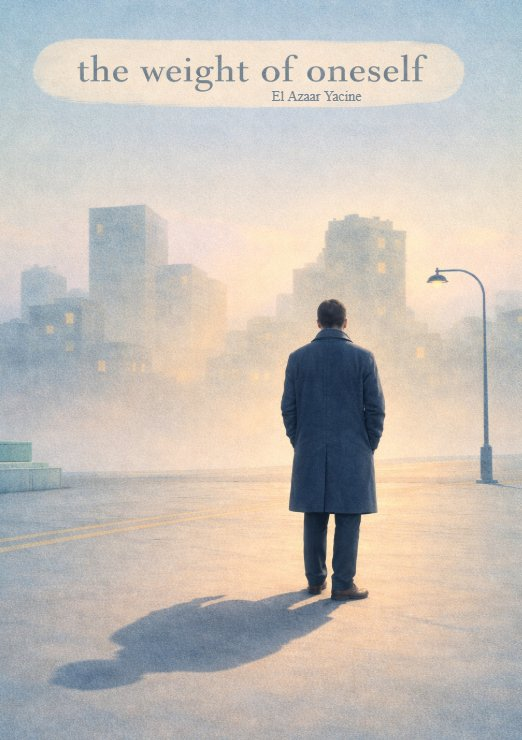
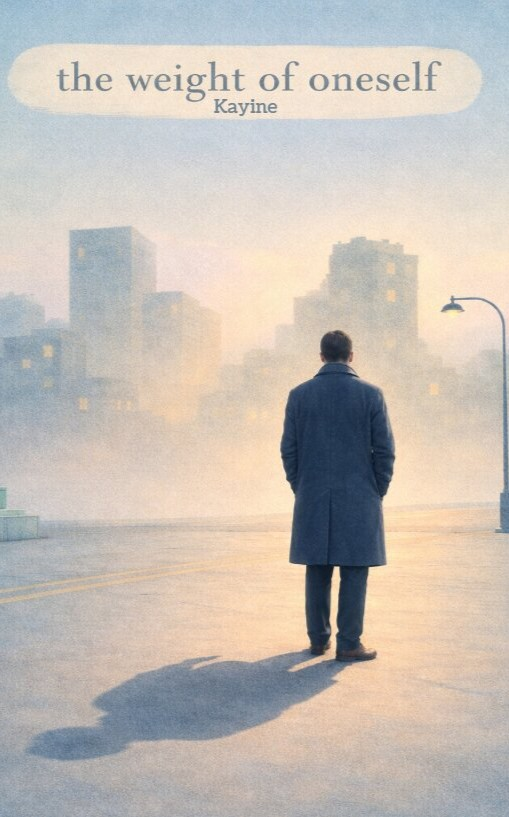
Add files via upload

diff --git a/index.html b/index.html
@@ -4,14 +4,14 @@
 <meta charset="utf-8">
 <meta name="viewport" content="width=device-width, initial-scale=1, viewport-fit=cover">
 <title>The Weight of Oneself – Kayine</title>
-<meta name="description" content="Arthur has always trusted the system. A novel by Kayine, available on Kindle.">
+<meta name="description" content="Arthur has always trusted the system. A novel by Kayine.">
 <link rel="preconnect" href="https://fonts.googleapis.com">
 <link href="https://fonts.googleapis.com/css2?family=Cormorant+Garamond:wght@500;600&display=swap" rel="stylesheet">
 <link rel="icon" href="favicon.ico" sizes="any">
 <link rel="icon" type="image/png" sizes="32x32" href="favicon-32.png">
 <link rel="apple-touch-icon" href="apple-touch-icon.png">
 <link rel="stylesheet" href="style.css">
-<script src="https://assets.lemonsqueezy.com/lemon.js" defer></script>
+<script src="unavailable.js" defer></script>
 </head>
 <body>
 <nav><div class="wrap"><a class="brand" href="index.html"><img class="brand-logo" src="logo.png" alt="" width="32" height="32"><span>The Weight of Oneself · Kayine</span></a><ul><li><a href="index.html" aria-current="page">The Book</a></li><li><a href="essays.html">Essays</a></li><li><a href="chapter-1.html">Chapter 1 &amp; Reviews</a></li></ul></div></nav>
@@ -21,7 +21,7 @@
 <h1>The Weight of Oneself</h1>
 <p class="by">A novel by Kayine</p>
 <p class="hook">Arthur has always trusted the system. Then one morning, something feels wrong.</p>
-<div class="buyrow"><a class="buy lemonsqueezy-button" href="https://itskayine.blink.store/theweightofmyself?embed=true">Buy direct from the author</a> <a class="buy dark" href="https://amzn.eu/d/0gb8DovP" target="_blank" rel="noopener">Buy on Amazon</a></div>
+<div class="buyrow"><a class="buy" href="#" data-unavailable>Not available yet</a></div>
 <span class="fmt">E-book, English edition · <a href="chapter-1.html">Read Chapter 1 first</a></span>
 </div></div></header>
 <main>
@@ -35,8 +35,8 @@
 <h2>About the author</h2>
 <p>Kayine wrote <em>The Weight of Oneself</em> at 18, while studying engineering. Drawn to debate and philosophy, Kayine uses this novel to ask what remains of a person once the system has reshaped them. More of this thinking lives in the <a href="essays.html">essays</a>.</p>
 </div></section>
-<section class="cta"><div class="wrap"><p>Read it on your Kindle, phone, or tablet.</p>
-<div class="buyrow"><a class="buy lemonsqueezy-button" href="https://itskayine.blink.store/theweightofmyself?embed=true">Buy direct from the author</a> <a class="buy dark" href="https://amzn.eu/d/0gb8DovP" target="_blank" rel="noopener">Buy on Amazon</a></div>
+<section class="cta"><div class="wrap"><p>Want to read it?</p>
+<div class="buyrow"><a class="buy" href="#" data-unavailable>Not available yet</a></div></div></section>
 </main>
 <footer>
 <img class="foot-mark" src="mark-white.png" alt="Kayine" width="48" height="48">

diff --git a/chapter-1.html b/chapter-1.html
@@ -11,7 +11,7 @@
 <link rel="icon" type="image/png" sizes="32x32" href="favicon-32.png">
 <link rel="apple-touch-icon" href="apple-touch-icon.png">
 <link rel="stylesheet" href="style.css">
-<script src="https://assets.lemonsqueezy.com/lemon.js" defer></script>
+<script src="unavailable.js" defer></script>
 </head>
 <body>
 <nav><div class="wrap"><a class="brand" href="index.html"><img class="brand-logo" src="logo.png" alt="" width="32" height="32"><span>The Weight of Oneself · Kayine</span></a><ul><li><a href="index.html">The Book</a></li><li><a href="essays.html">Essays</a></li><li><a href="chapter-1.html" aria-current="page">Chapter 1 &amp; Reviews</a></li></ul></div></nav>
@@ -25,7 +25,7 @@
 <p>Now came the moment he loved most. He has to get dressed for work. He took off his tiger-stripped pajamas and put on the first layer of clothes for his outfit–an absolutely ravishing white shirt which he inserted into his dark blue pants–. He didn’t forget the straps he held the assembly with and he passed his hands through the sleeves of the slightly darker vest that he had. It was without any doubt that one could say that Mr Arthur was a man of fashion. He dresses simply but very well. He doesn’t dress to impress but he manages to do so. He was one of those men indifferent to the judgment of others. He lived his life as if it was his. He believed in the fact that he was the main and only important character in his story and that this story wouldn’t end without him there to witness it.</p>
 </div></section>
 <section class="cta"><div class="wrap"><p>Want to keep reading?</p>
-<div class="buyrow"><a class="buy lemonsqueezy-button" href="https://itskayine.blink.store/theweightofmyself?embed=true">Buy direct from the author</a> <a class="buy dark" href="https://amzn.eu/d/0gb8DovP" target="_blank" rel="noopener">Buy on Amazon</a></div></div></section>
+<div class="buyrow"><a class="buy" href="#" data-unavailable>Not available yet</a></div></div></section>
 <section class="story"><div class="wrap wide">
 <h2>Reviews</h2>
 <!-- Example of how reviews look. Real reviews are added in reviews.js and replace these three. -->
@@ -43,7 +43,6 @@
 </div>
 <div class="actions">
 <a class="buy dark" href="mailto:kayinewrites@gmail.com?subject=Review%20of%20The%20Weight%20of%20Oneself&body=Your%20name%3A%0A%0AYour%20review%3A%0A"><svg viewBox="0 0 24 24" width="18" height="18" fill="none" stroke="currentColor" stroke-width="2" stroke-linecap="round" stroke-linejoin="round" aria-hidden="true"><rect x="3" y="5" width="18" height="14" rx="2"/><path d="m3 7 9 6 9-6"/></svg>Send a review</a>
-<a href="https://amzn.eu/d/0gb8DovP" target="_blank" rel="noopener">Read all reviews on Amazon</a>
 </div>
 <script src="reviews.js"></script>
 </div></section>

diff --git a/unavailable.js b/unavailable.js
@@ -1,0 +1,29 @@
+// Pop-up shown when someone clicks a "Buy" button.
+(function () {
+  var dialog = document.createElement("dialog");
+  dialog.className = "sale-dialog";
+  dialog.setAttribute("aria-labelledby", "sale-title");
+  dialog.innerHTML =
+    '<h2 id="sale-title">Currently unavailable</h2>' +
+    "<p>Due to the legal context of the author, the book cannot be sold at the moment.</p>" +
+    '<button type="button" class="buy dark">Close</button>';
+  document.body.appendChild(dialog);
+
+  dialog.querySelector("button").addEventListener("click", function () {
+    dialog.close();
+  });
+
+  // Clicking outside the box also closes it.
+  dialog.addEventListener("click", function (event) {
+    if (event.target === dialog) {
+      dialog.close();
+    }
+  });
+
+  document.querySelectorAll("[data-unavailable]").forEach(function (link) {
+    link.addEventListener("click", function (event) {
+      event.preventDefault();
+      dialog.showModal();
+    });
+  });
+})();

diff --git a/style.css b/style.css
@@ -1057,3 +1057,38 @@ body > footer{
     animation: none;
   }
 }
+
+
+
+
+dialog.sale-dialog{
+  width: calc(100% - 3rem);
+  max-width: 28rem;
+  padding: 2rem;
+  border: 0;
+  border-radius: 12px;
+  background: var(--line);
+  color: var(--ink);
+  text-align: center;
+  box-shadow: 0 30px 60px -20px rgba(29, 39, 51, .5);
+}
+ 
+dialog.sale-dialog::backdrop{
+  background: #ddd7cd;
+  opacity: 0.55;
+}
+ 
+dialog.sale-dialog h2{
+  margin: 0 0 .75rem;
+  font-size: 1.75rem;
+}
+ 
+dialog.sale-dialog p{
+  margin: 0 0 1.5rem;
+}
+ 
+dialog.sale-dialog .buy{
+  border: 0;
+  font: inherit;
+  cursor: pointer;
+}
